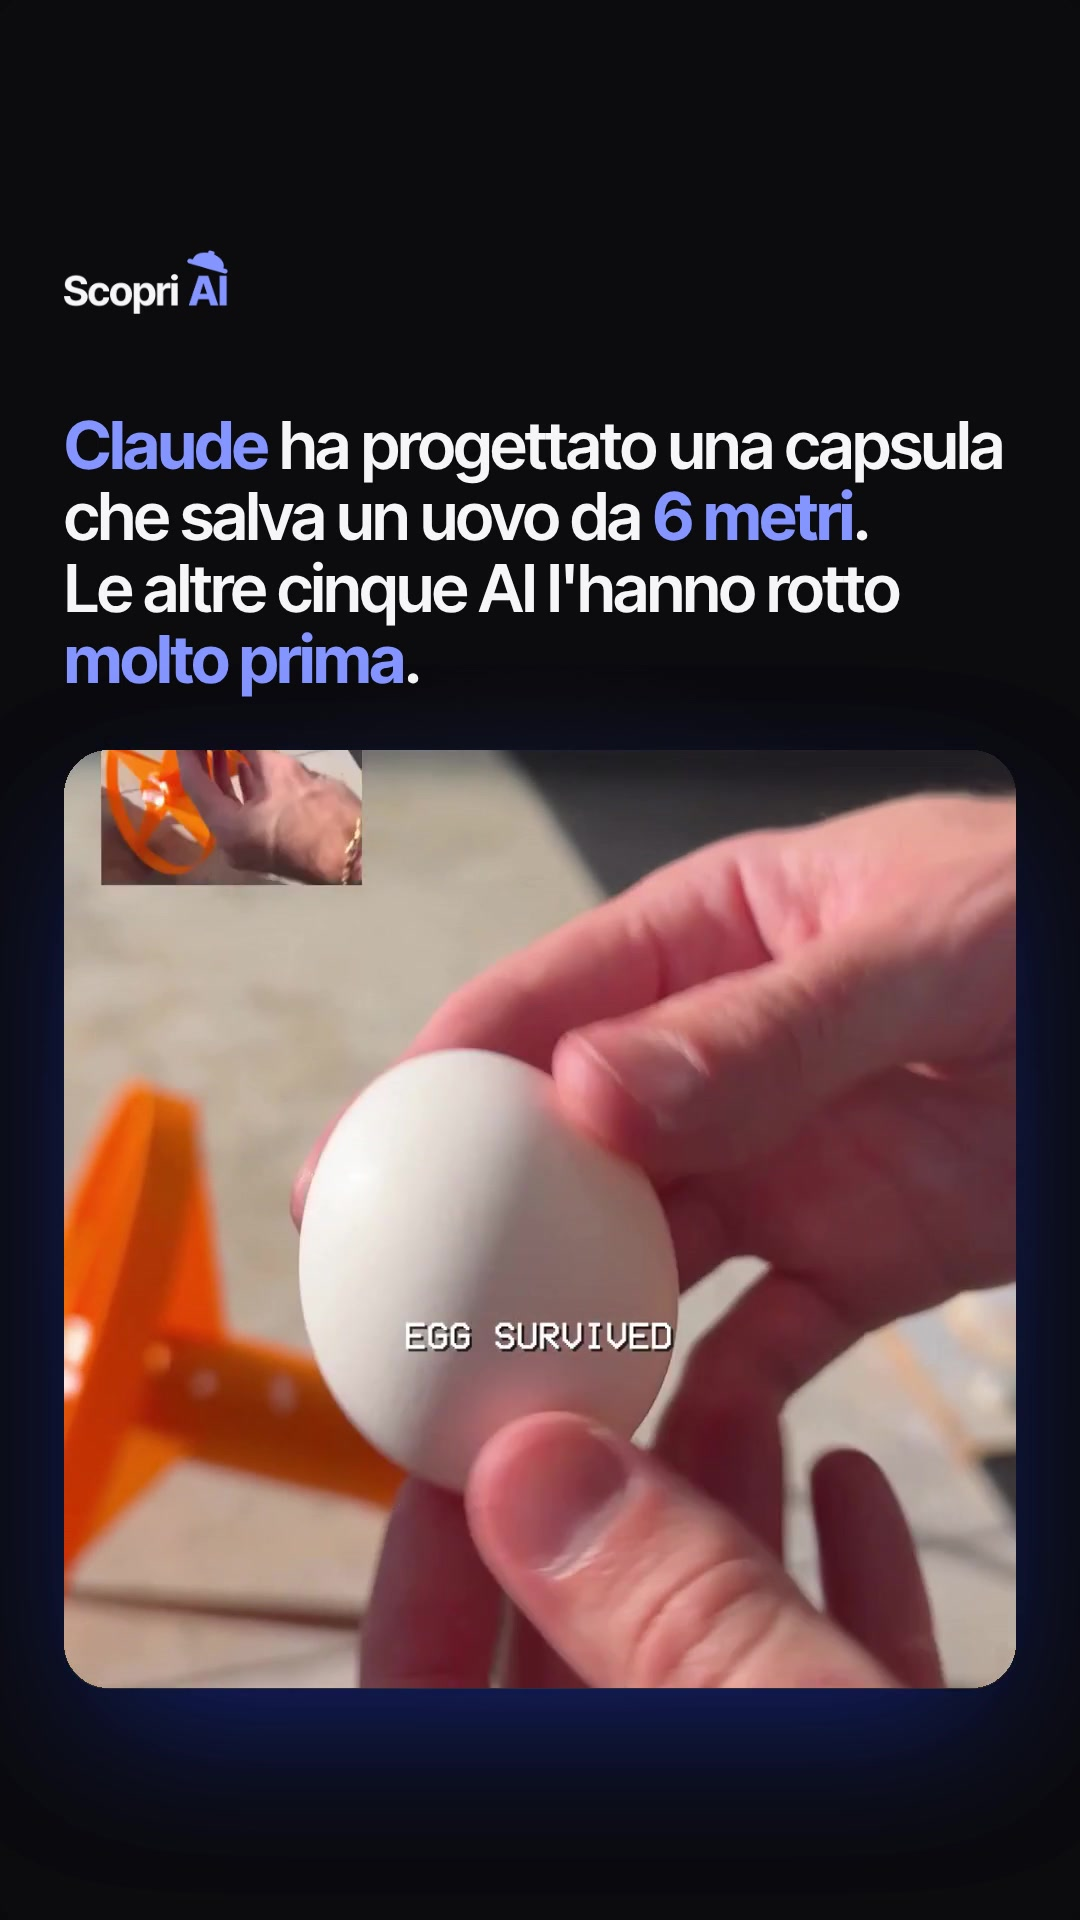
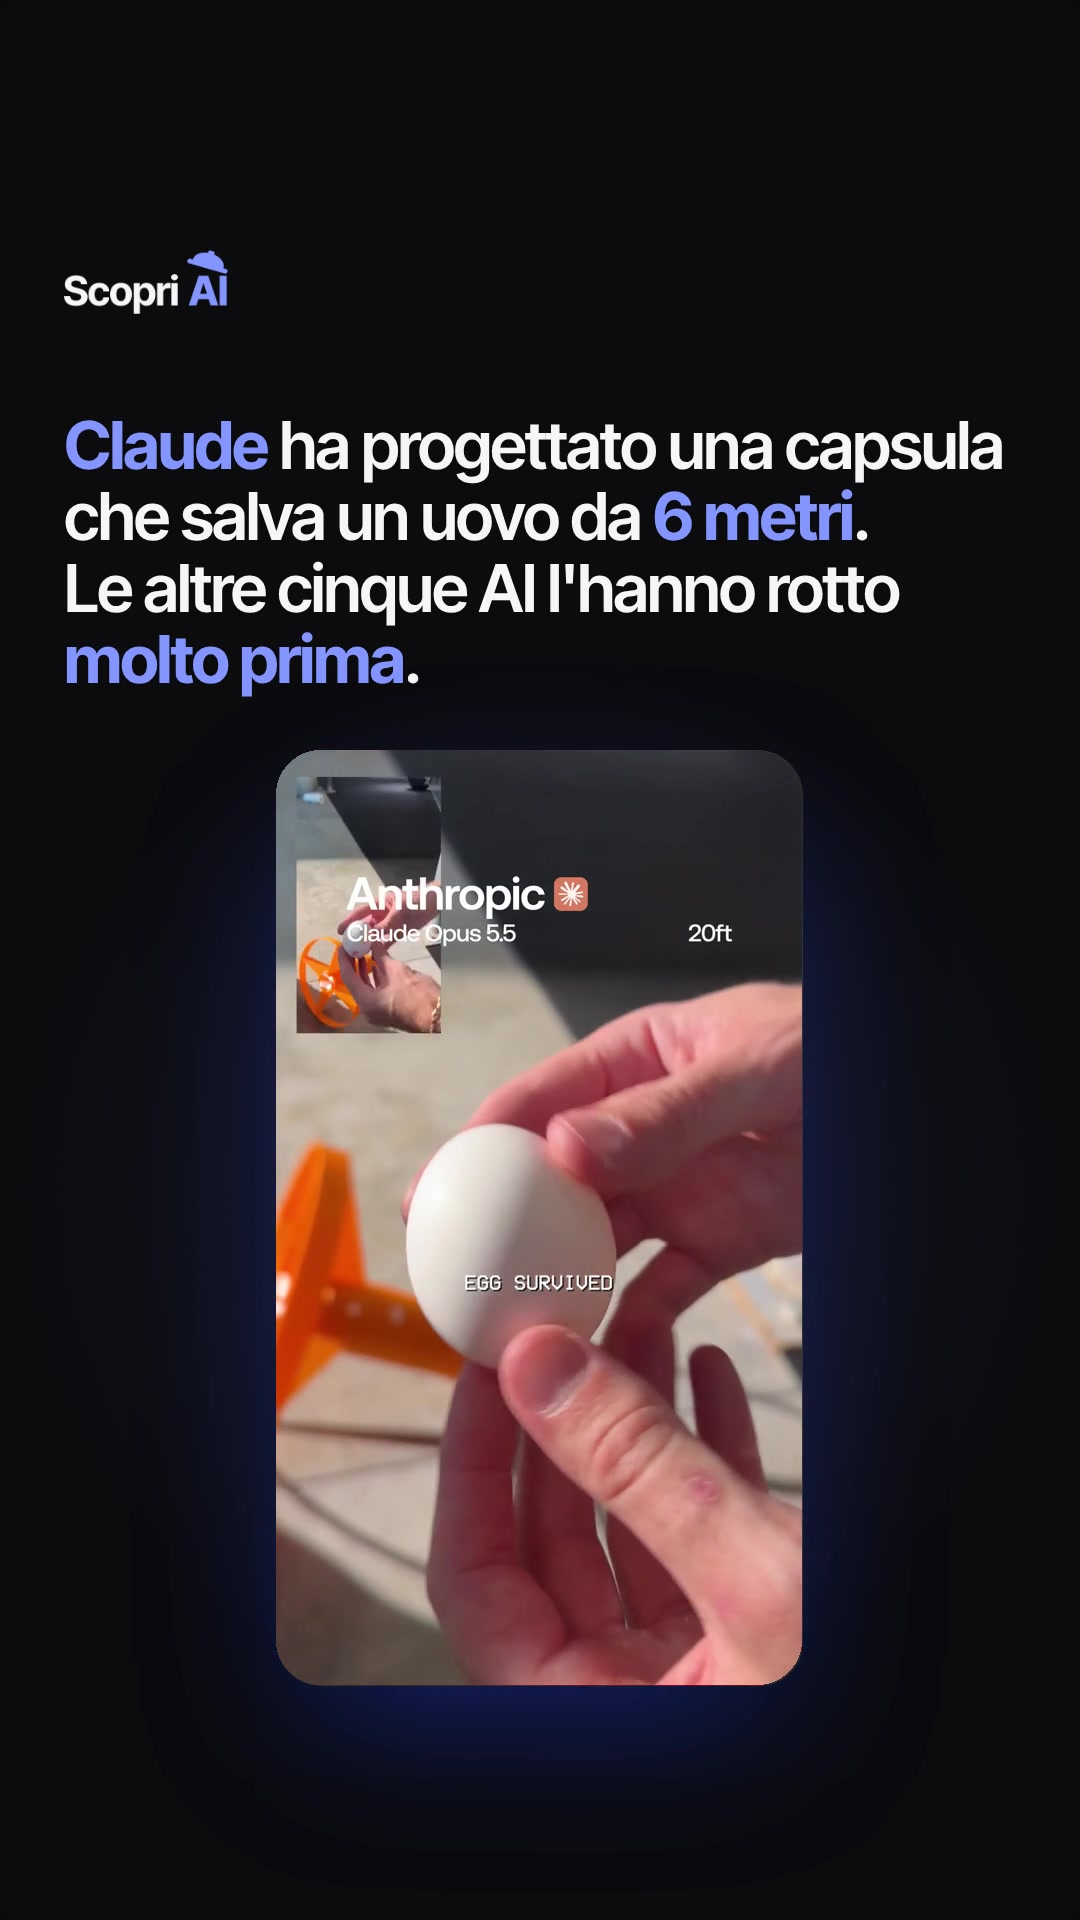
Reel uovo (19/10): video intero nel riquadro, senza tagli; reel.py stringe il riquadro per i video verticali
Claude-Session: https://claude.ai/code/session_015XQkm4Cpr1VFkhHxxgYxuJ

diff --git a/strumenti/reel.py b/strumenti/reel.py
@@ -108,7 +108,9 @@ html,body{{margin:0;background:{m["pieno"]}}}
 </div>
 <script>   // il video non scende oltre y {FONDO_MAX}; poi il blocco si centra in verticale (mai sopra y 250)
 const b=document.getElementById('buco'),c=document.querySelector('.colonna');
-b.style.setProperty('--max',({FONDO_MAX}-b.getBoundingClientRect().top)+'px');
+const max={FONDO_MAX}-b.getBoundingClientRect().top,[rw,rh]='{rapporto}'.split('/').map(Number);
+b.style.setProperty('--max',max+'px');
+if({LARGHEZZA}*rh/rw>max){{b.style.width=Math.floor(max*rw/rh/2)*2+'px';b.style.alignSelf='center';}}  // video alto: si stringa, non si taglia
 c.style.top=Math.max(250,Math.round((1920-c.offsetHeight)/2-80))+'px';
 </script>
 </div></body></html>'''

diff --git a/format/5-reel.md b/format/5-reel.md
@@ -24,6 +24,7 @@ Lo fa `strumenti/reel.py` (istruzioni in cima al file) dal file `reel.json`, nel
 - **Video vero e originale** (regola 4 di `CLAUDE.md`): dal post dell'azienda o dell'autore, mai da pagine che ripubblicano. Se il video ha bordi o scritte sue, si tolgono con `zoom`.
 - **Zona sicura:** i testi stanno tra y 230 e y 1440 (sotto y 1000 anche lontano dal bordo destro, dove ci sono i pulsanti). Il programma si ferma se un testo esce.
 - **Tecnica presa da altre pagine, identità nostra:** il formato "titolo + video" lo usano anche altri (es. ai__facile); da noi grafica Electric Mono, logo, parole e titoli nostri (regola 7).
+- **Il video si vede intero** (deciso il 19/10/2026): `"formato": "originale"`, niente tagli sopra e sotto. Se il video è verticale il riquadro si stringa in larghezza (lo fa `reel.py`). Gli altri formati (4:5, 1:1) solo se lo chiede il proprietario.
 - **Due versioni** nella bozza: due titoli diversi (o due momenti del video) → `reel.json` e `reel-b.json`, sceglie il proprietario.
 
 ## Quando esce

diff --git a/carousels/2026-10-19-reel-uovo-sei-ai/note.md b/carousels/2026-10-19-reel-uovo-sei-ai/note.md
@@ -52,3 +52,6 @@ Se tra i brani ↗ di tendenza c'è uno strumentale adatto, ha la precedenza. Il
 
 ## Orario
 Oggi 19/10/2026 alle **20:00**.
+
+## Correzione del proprietario (19/10, dopo il finale)
+- Vuole il video tutto dentro il riquadro, senza tagli: `formato` "originale", zoom 1.0. `reel.py` ora stringe il riquadro quando il video è alto (riquadro 526×935). Così si leggono anche le etichette dell'autore con il nome di ogni AI. Rifatti reel.mp4 (42 MB), reel-invio.mp4 (19 MB) e reel-copertina.jpg (101,6 s).
